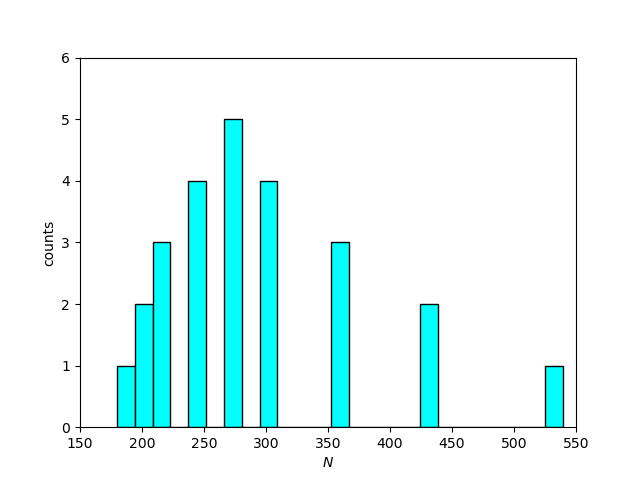
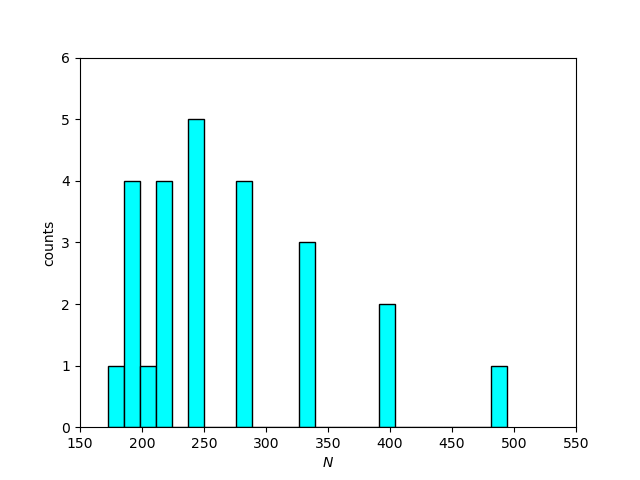
fit1 is m_F = 2,0. fit2 is m_F = 2,-2

diff --git a/meting2.py b/meting2.py
@@ -140,6 +140,10 @@ def try_fit(m_Fl, m_Fr):
     lin_vals = list(lin_vals)
     lin_vals_err = list(lin_vals_err)
 
+    lin_func = lambda I, N: I * N
+
+    model = models.Model(lin_func)
+
     # combine duplicate current measurements 3,4 and 7,8 (in the worst possible way)
     lin_vals_err[4] = np.sqrt(lin_vals_err[4]**2 + lin_vals_err[5]**2)/2
     lin_vals[4] = (lin_vals[4] + lin_vals[5])/2
@@ -152,23 +156,30 @@ def try_fit(m_Fl, m_Fr):
     lin_vals_err.remove(lin_vals_err[9])
     current_df.drop_duplicates(inplace=True)
 
-    # remove first 2 and last 6 values
-    lin_vals_filtered = np.array(lin_vals[2:len(lin_vals) - 6])
-    lin_vals_err_filtered = np.array(lin_vals_err[2:len(lin_vals_err) - 6])
+    # remove first 1 and last 9 values if one of m_F will end up at 1, 0 or -1
+    if m_Fl == -2 or m_Fl == -1 or m_Fl == 0 or m_Fr == 0 or m_Fr == 1 or m_Fr == 2:
+        lin_vals_filtered = np.array(lin_vals[1:len(lin_vals) - 9])
+        lin_vals_err_filtered = np.array(lin_vals_err[1:len(lin_vals_err) - 9])
+        fit = model.fit(
+            data=lin_vals_filtered,
+            I=current_df["current"][1:len(current_df["current"]) - 9],
+            weights=1 / lin_vals_err_filtered,
+            N=200,
+        )
+    # otherwise remove only the first
+    else:
+        lin_vals_filtered = np.array(lin_vals[1:])
+        lin_vals_err_filtered = np.array(lin_vals_err[1:])
+        fit = model.fit(
+            data=lin_vals_filtered,
+            I=current_df["current"][1:],
+            weights=1 / lin_vals_err_filtered,
+            N=200,
+        )
 
-    lin_func = lambda I, N: I * N
-
-    model = models.Model(lin_func)
-
-    fit = model.fit(
-        data=lin_vals_filtered,
-        I=current_df["current"][2:len(current_df["current"]) - 6],
-        weights=1 / lin_vals_err_filtered,
-        N=200,
-    )
     print(fit.fit_report())
 
-    if m_Fl == 2 and m_Fr == 2:
+    if m_Fl == 2 and m_Fr == 0:
         plt.errorbar(
             x=current_df["current"],
             y=lin_vals,
@@ -179,7 +190,7 @@ def try_fit(m_Fl, m_Fr):
             capsize=2
         )
         plt.errorbar(
-            x=current_df["current"][2:len(current_df["current"]) - 6],
+            x=current_df["current"][1:len(current_df["current"]) - 9],
             y=lin_vals_filtered,
             yerr=lin_vals_err_filtered,
             fmt="o",
@@ -192,7 +203,34 @@ def try_fit(m_Fl, m_Fr):
         plt.plot([0, 0.8], [0, 0.8 * fit.params["N"].value], color="orange")
         plt.xlim(0, 0.8)
         plt.ylim(0, 250)
-        plt.savefig("fit.png", bbox_inches = "tight")
+        plt.savefig("fit1.png", bbox_inches = "tight")
+        plt.show()
+
+    if m_Fl == 2 and m_Fr == -2:
+        plt.errorbar(
+            x=current_df["current"],
+            y=lin_vals,
+            yerr=lin_vals_err,
+            fmt="o",
+            c="red",
+            ms=2,
+            capsize=2
+        )
+        plt.errorbar(
+            x=current_df["current"][1:],
+            y=lin_vals_filtered,
+            yerr=lin_vals_err_filtered,
+            fmt="o",
+            c="black",
+            ms=2,
+            capsize=2
+        )
+        plt.xlabel(r"$I_{\mathrm{spoel}}$ (A)")
+        plt.ylabel(r"$\frac{\ell \Delta E}{k \mu_B \mu_0}$", fontsize=18)
+        plt.plot([0, 0.8], [0, 0.8 * fit.params["N"].value], color="orange")
+        plt.xlim(0, 0.8)
+        plt.ylim(0, 250)
+        plt.savefig("fit2.png", bbox_inches = "tight")
         plt.show()
 
     return fit.params["N"].value
